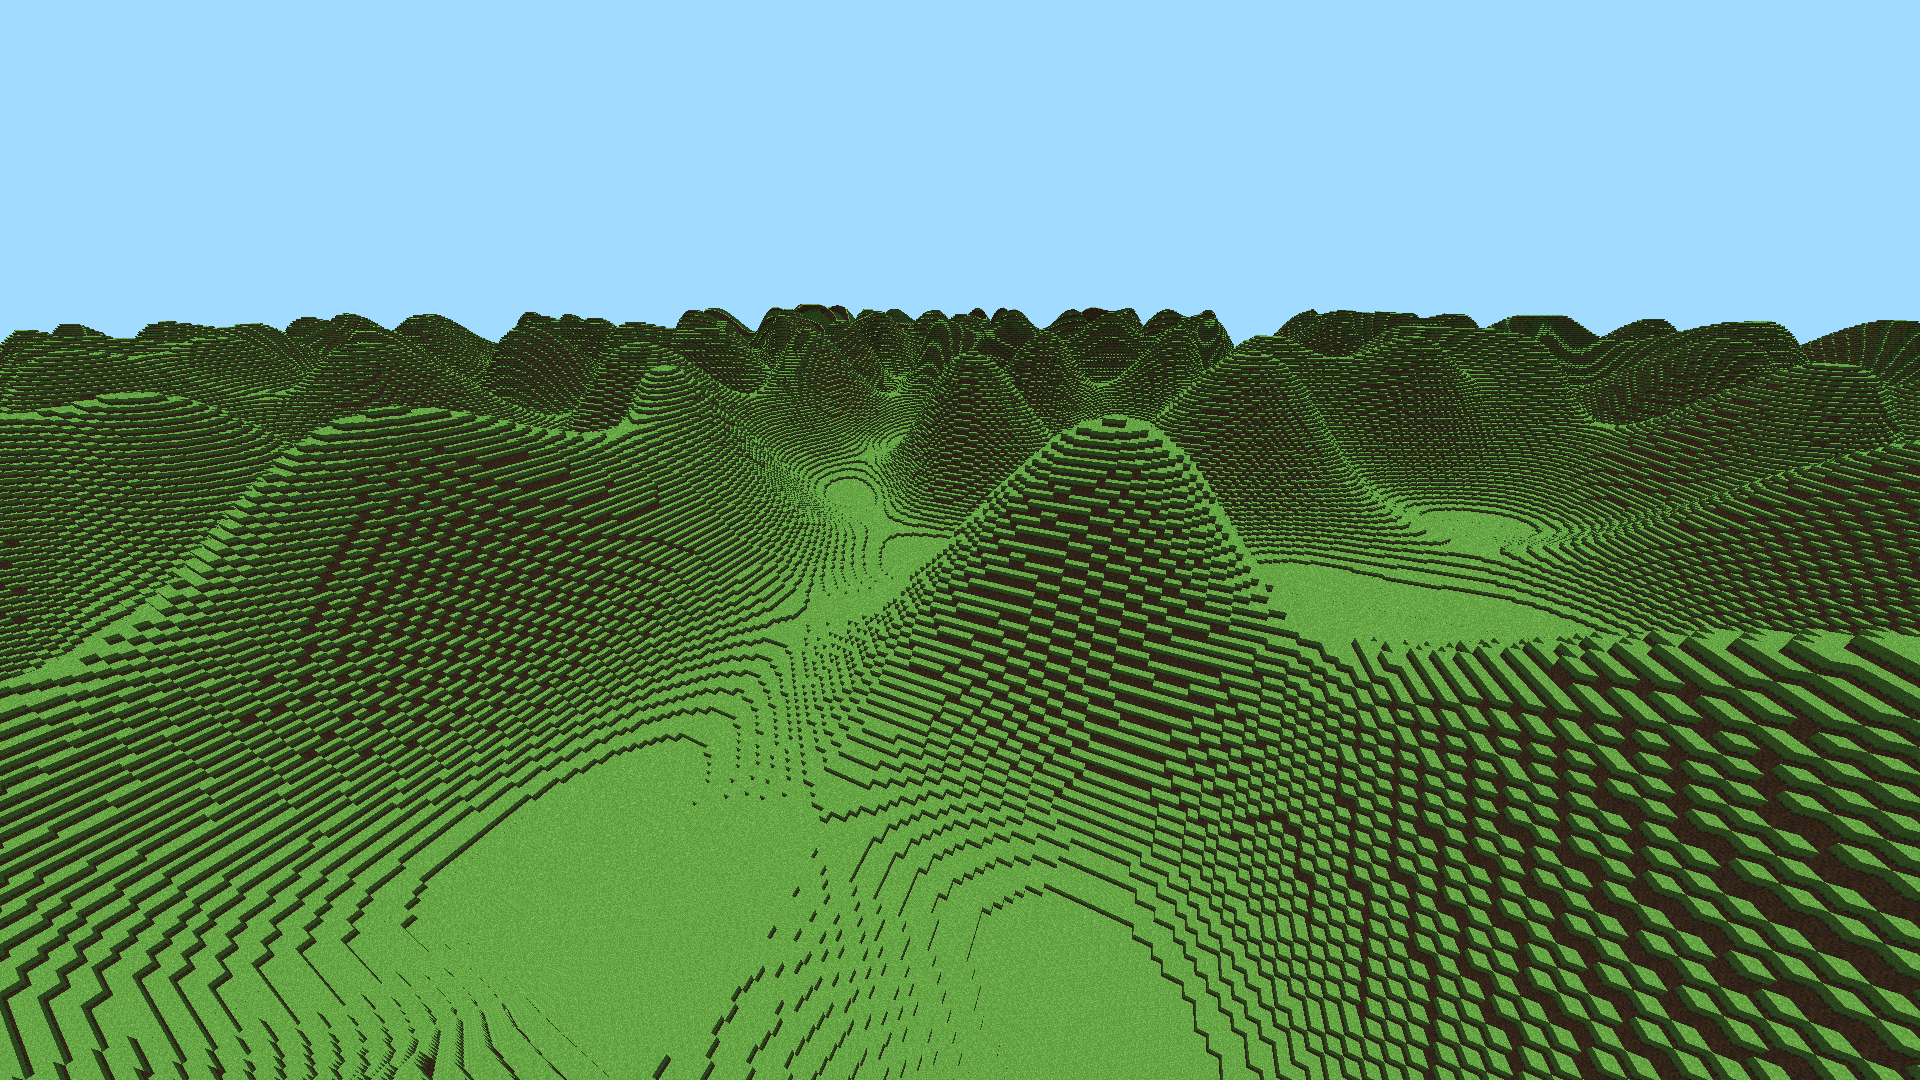
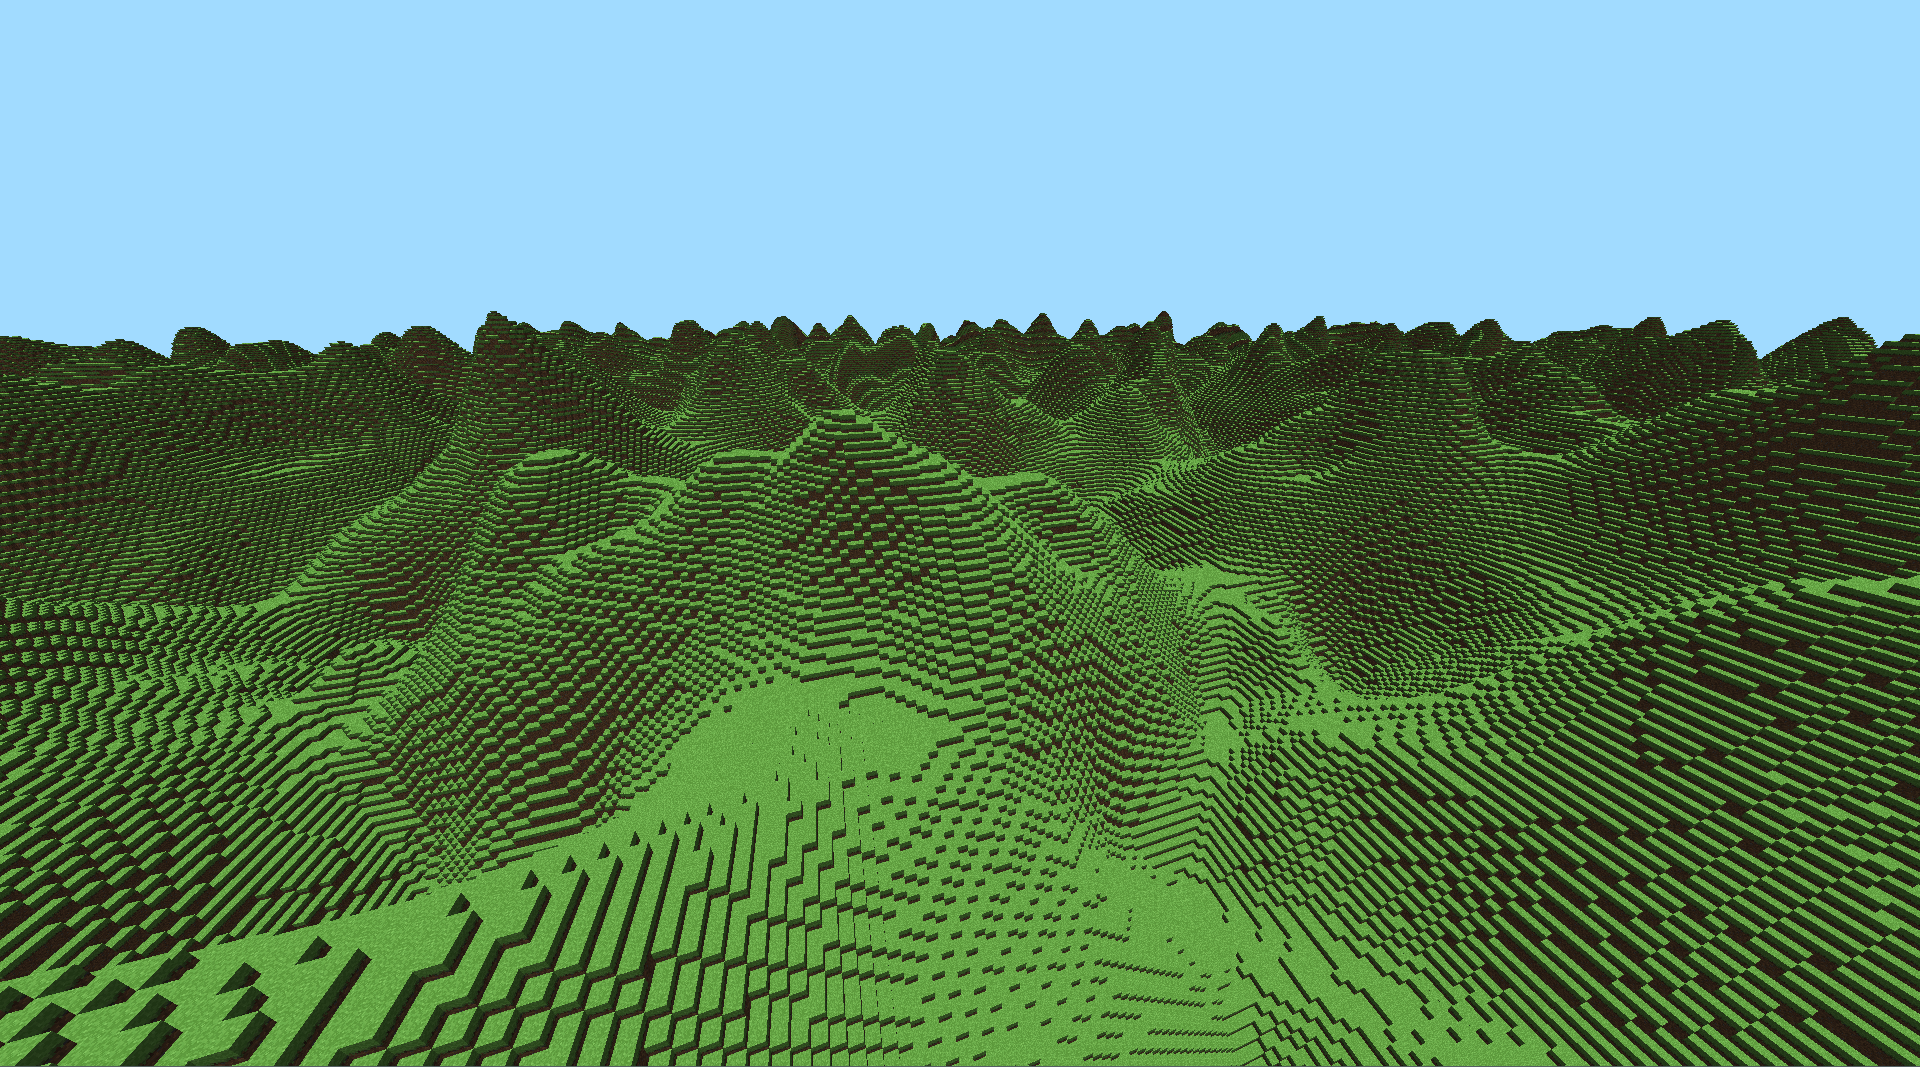
add textures, param, change noise

diff --git a/src/world/chunk.h b/src/world/chunk.h
@@ -5,7 +5,11 @@
 #define GLM_ENABLE_EXPERIMENTAL
 #include "glm/gtx/hash.hpp"
 
+
+#include "../params.h"
 #include "fastnoiselite.h"
+#include "blocks.h"
+
 #include <vector>
 #include <optional>
 #include <map>
@@ -13,12 +17,6 @@
 #include <thread>
 #include <future>
 
-#define MAX_ACTIVE_THREADS 16
-#define CHUNKS_SIZE 32
-#define WORLD_HEIGHT 50
-#define RENDER_DISTANCE 20
-
-enum BlockType { EMPTY, GRASS, DIRT, SAND, STONE };
 
 enum Direction { BACKWARD, FORWARD, LEFT, RIGHT, DOWN, UP };
 #define FIRST_DIRECTION BACKWARD
@@ -28,53 +26,12 @@ glm::ivec3 dir[]{
     glm::ivec3(1, 0, 0), glm::ivec3(0, -1, 0), glm::ivec3(0, 1, 0),
 };
 
-struct Face {
- public:
-  BlockType type;
-  Direction dir;
-  glm::ivec3 coords;
-  Face(BlockType type, Direction dir, glm::ivec3 coords)
-      : type(type), dir(dir), coords(coords) {}
-  int get_blockatlas_index() {
-    switch (type) {
-      case EMPTY:
-        assert(false);
-        break;
-      case DIRT:
-        return 2;
-      case GRASS:
-        switch (dir) {
-          case UP:
-            return 0;
-          case DOWN:
-            return 1;
-          default:
-            return 2;
-        }
-      default:
-        assert(false);
-    }
-  }
-};
 
-class Block {
- public:
-  BlockType type;
-  Block() : type(EMPTY) {}
-  Block(BlockType type) : type(type) {}
-  void set_active(bool b) {
-    if (b)
-      type = GRASS;
-    else
-      type = EMPTY;
-  }
-  bool is_active() { return type != EMPTY; }
-};
 
 struct ChunkMesh {
+  vector<glm::ivec4> buffer;
   VAO vao;
   SSBO ssbo;
-  vector<glm::ivec4> buffer;
   int faces_count = 0;
   ChunkMesh() : ssbo(SSBO(nullptr, false)) { assert(false); }
   ChunkMesh(Shader* shader) : vao(VAO()), ssbo(SSBO(shader, false)) {}
@@ -83,7 +40,7 @@ struct ChunkMesh {
 
 class Chunk {
  public:
-  FastNoiseLite noise;
+  FastNoiseLite* noise;
   bool dirty = true;
   bool meshing = false;
   glm::ivec3 origin;
@@ -93,9 +50,10 @@ class Chunk {
   Block blocks[CHUNKS_SIZE * WORLD_HEIGHT * CHUNKS_SIZE];
 
   Chunk() { assert(false); }
-  Chunk(glm::ivec3 origin, Shader* shader)
-      : mesh{ChunkMesh(shader), ChunkMesh(shader), ChunkMesh(shader),
-              ChunkMesh(shader), ChunkMesh(shader), ChunkMesh(shader)} {
+  Chunk(glm::ivec3 origin, Shader* shader, FastNoiseLite* noise)
+      : noise(noise),
+        mesh{ChunkMesh(shader), ChunkMesh(shader), ChunkMesh(shader),
+             ChunkMesh(shader), ChunkMesh(shader), ChunkMesh(shader)} {
     this->origin = origin * glm::ivec3(CHUNKS_SIZE, 0, CHUNKS_SIZE);
     fill_with_terrain();
     dirty = true;
@@ -103,9 +61,28 @@ class Chunk {
 
   ~Chunk() {};
 
+  int get_height(int x, int z) {
+    float height = noise->GetNoise((float)(x + origin.x), (float)(z + origin.z)) / 2.0 + 0.5f;
+    return min(WORLD_HEIGHT - 1, (int)((float)WORLD_HEIGHT * height + 1));
+  }
+
+  void fill_with_terrain() {
+    for (int x = 0; x < CHUNKS_SIZE; x++) {
+      for (int z = 0; z < CHUNKS_SIZE; z++) {
+        int scaled_height = get_height(x, z);
+        for (int y = 0; y + origin.y < scaled_height && y < WORLD_HEIGHT; y++) {
+          blocks[ivec3_to_index(glm::ivec3(x, y, z))].type = DIRT;
+          active_count++;
+        }
+        blocks[ivec3_to_index(glm::ivec3(x, scaled_height - origin.y, z))]
+            .type = GRASS;
+      }
+    }
+  }
+
   bool player_sees_face(Camera& camera, Direction dir) {
     glm::vec3 pos = camera.position;
-    switch(dir) {
+    switch (dir) {
       case BACKWARD:
         return pos.z >= origin.z;
       case FORWARD:
@@ -119,28 +96,6 @@ class Chunk {
         return true;
       default:
         assert(false);
-    }
-  }
-
-  int get_height(int x, int z) {
-    float height1 =
-        noise.GetNoise((float)(x + origin.x), (float)(z + origin.z)) / 2.0 +
-        0.5f;
-    height1 = height1 * height1;
-    return min(WORLD_HEIGHT - 1, (int)((float)WORLD_HEIGHT * height1 + 1));
-  }
-
-  void fill_with_terrain() {
-    float mx = 0.0f, mn = 10.0F;
-    for (int x = 0; x < CHUNKS_SIZE; x++) {
-      for (int z = 0; z < CHUNKS_SIZE; z++) {
-        int scaled_height = get_height(x, z);
-        for (int y = 0; y + origin.y < scaled_height && y < WORLD_HEIGHT; y++) {
-          blocks[ivec3_to_index(glm::ivec3(x, y, z))].type = DIRT;
-          active_count++;
-        }
-        blocks[ivec3_to_index(glm::ivec3(x, scaled_height - origin.y, z))].type = GRASS;
-      }
     }
   }
 
@@ -236,13 +191,13 @@ class Chunk {
   void prepare_mesh_data(unordered_map<glm::ivec3, Chunk>& chunks) {
     create_faces(chunks);
   }
-  
+
   // Called on main thread only
   void upload_to_gpu() {
     if (active_count == 0) return;
     for (int d = 0; d < 6; d++) {
       mesh[d].ssbo.set_buffer(mesh[d].buffer.data(),
-                             mesh[d].buffer.size() * sizeof(glm::ivec4), 0);
+                              mesh[d].buffer.size() * sizeof(glm::ivec4), 0);
     }
   }
 
@@ -261,16 +216,18 @@ class World {
  public:
   const int render_distance = RENDER_DISTANCE;
   const int chunks_size = CHUNKS_SIZE;
+  FastNoiseLite noise;
   unordered_map<glm::ivec3, Chunk> chunks;
   unordered_map<glm::ivec3, Chunk*> loaded_chunks;
   vector<pair<Chunk*, std::future<void>>> active_threads;
   Shader shader = Shader("resources/shaders/default.vert",
                          "resources/shaders/default.frag");
   TextureArray texture_array = TextureArray("resources/textures");
-  World() {}
-  ~World() {
-    cleanup();
+  World() {
+    noise.SetFractalType(FastNoiseLite::FractalType_FBm);
+    noise.SetFractalWeightedStrength(2.0f);
   }
+  ~World() {}
 
   void prepare(Camera& camera) {
     shader.use();
@@ -291,16 +248,12 @@ class World {
     return chunk[p & glm::ivec3(chunks_size - 1)];
   }
 
-  template<typename T>
+  template <typename T>
   bool thread_is_done(std::future<T>& t) {
     return t.wait_for(std::chrono::seconds(0)) == std::future_status::ready;
   }
 
-  void render(Camera& camera) {
-    glm::ivec3 player_coords = glm::ivec3(camera.position);
-    glm::ivec3 player_chunk_coords = retrieve_chunk_coords(player_coords);
-
-    // Unload chunks that are too far
+  void unload_far_chunks(glm::ivec3& player_chunk_coords) {
     for (auto it = loaded_chunks.cbegin(); it != loaded_chunks.cend();) {
       Chunk* chunk = it->second;
       glm::ivec3 orig = chunk->origin - player_chunk_coords;
@@ -310,8 +263,9 @@ class World {
       else
         it++;
     }
+  }
 
-    // Load chunks that became close, create them if needed
+  void load_close_chunks(glm::ivec3& player_chunk_coords) {
     for (int x = -render_distance; x < render_distance; x++) {
       for (int z = -render_distance; z < render_distance; z++) {
         if (x * x + z * z > render_distance * render_distance) continue;
@@ -320,14 +274,16 @@ class World {
         if (chunks.find(chunk_coords) == chunks.end()) {
           chunks.emplace(std::piecewise_construct,
                          std::forward_as_tuple(chunk_coords),
-                         std::forward_as_tuple(chunk_coords, &shader));
+                         std::forward_as_tuple(chunk_coords, &shader, &noise));
           loaded_chunks.emplace(chunk_coords, &chunks[chunk_coords]);
         } else if (loaded_chunks.find(chunk_coords) == loaded_chunks.end()) {
           loaded_chunks.emplace(chunk_coords, &chunks[chunk_coords]);
         }
       }
     }
+  }
 
+  void set_view_clear(Camera& camera) {
     glClear(GL_COLOR_BUFFER_BIT | GL_DEPTH_BUFFER_BIT);
     glClearColor(0.63f, 0.86f, 1.0f, 1.0f);
     glm::mat4 v = camera.get_view_matrix();
@@ -335,51 +291,53 @@ class World {
     shader.use();
     shader.uniform_mat4("v", v);
     shader.uniform_vec3("viewPos", camera.position);
+  }
 
-
-
-    
-
+  void add_chunks_to_render_queue() {
     for (auto& [coords, chunk] : loaded_chunks) {
-      if (chunk->dirty && !chunk->meshing && active_threads.size() < MAX_ACTIVE_THREADS) {
+      if (chunk->dirty && !chunk->meshing &&
+          active_threads.size() < MAX_ACTIVE_THREADS) {
         chunk->meshing = true;
-        active_threads.emplace_back(make_pair(chunk, std::async(std::launch::async, [chunk, this]() {
-          chunk->prepare_mesh_data(this->chunks);
-        })));
+        active_threads.emplace_back(
+            make_pair(chunk, std::async(std::launch::async, [chunk, this]() {
+                        chunk->prepare_mesh_data(this->chunks);
+                      })));
       }
     }
-    
-    // TODO change this to just wait until it has finished
-    // right now the join time is the same for every chunk no matter when it started loading
-    for (auto it = active_threads.begin(); it != active_threads.end(); ) {
+  }
+
+  void cleanup_meshed_chunks() {
+    for (auto it = active_threads.begin(); it != active_threads.end();) {
       auto& [chunk, t] = *it;
       if (thread_is_done(t)) {
         chunk->upload_to_gpu();
         chunk->dirty = false;
         chunk->meshing = false;
         it = active_threads.erase(it);
-      }
-      else {
+      } else {
         ++it;
       }
     }
-    
-    // Render all chunks
+  }
+
+  void render_chunks(Camera& camera) {
     for (auto& [coords, chunk] : loaded_chunks) {
       if (chunk->dirty) continue;
-
       shader.uniform_vec3("chunkOrigin", chunk->origin);
       chunk->render(camera);
     }
   }
 
-  void cleanup() {
-    // for (auto& [chunk, t] : active_threads) {
-    //   if (t.joinable()) {
-    //     t.join();
-    //   }
-    // }
-    // active_threads.clear();
+  void render(Camera& camera) {
+    glm::ivec3 player_coords = glm::ivec3(camera.position);
+    glm::ivec3 player_chunk_coords = retrieve_chunk_coords(player_coords);
+
+    unload_far_chunks(player_chunk_coords);
+    load_close_chunks(player_chunk_coords);
+    set_view_clear(camera);
+    add_chunks_to_render_queue();
+    cleanup_meshed_chunks();
+    render_chunks(camera);
   }
 };
 

diff --git a/src/world/blocks.h b/src/world/blocks.h
@@ -1,0 +1,35 @@
+#ifndef BLOCKS_H
+#define BLOCKS_H
+
+enum BlockType {
+    EMPTY,
+    GRASS,
+    DIRT,
+    SAND,
+    STONE,
+    SNOW,
+    WATER_SURFACE,
+    WATER,
+    LAVA_SURFACE,
+    LAVA,
+    FLOWER1,
+    FLOWER2,
+    GRASS_BUSH,
+    DESERT_BUSH
+};
+
+class Block {
+    public:
+     BlockType type;
+     Block() : type(EMPTY) {}
+     Block(BlockType type) : type(type) {}
+     void set_active(bool b) {
+       if (b)
+         type = GRASS;
+       else
+         type = EMPTY;
+     }
+     bool is_active() { return type != EMPTY; }
+   };
+
+#endif

diff --git a/src/params.h b/src/params.h
@@ -1,0 +1,9 @@
+#ifndef PARAMS_H
+#define PARAMS_H
+
+#define MAX_ACTIVE_THREADS 16
+#define CHUNKS_SIZE 32
+#define WORLD_HEIGHT 100
+#define RENDER_DISTANCE 20
+
+#endif
